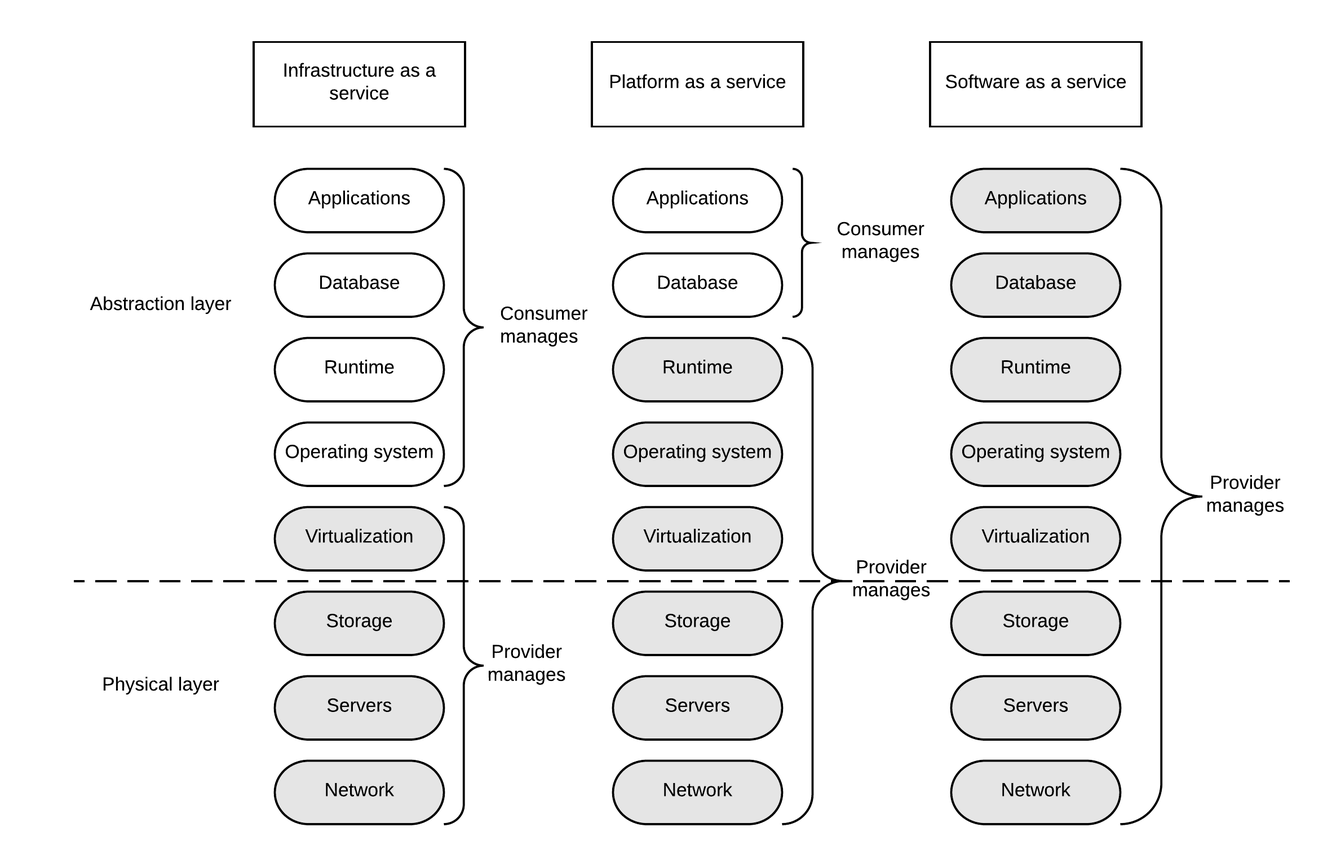
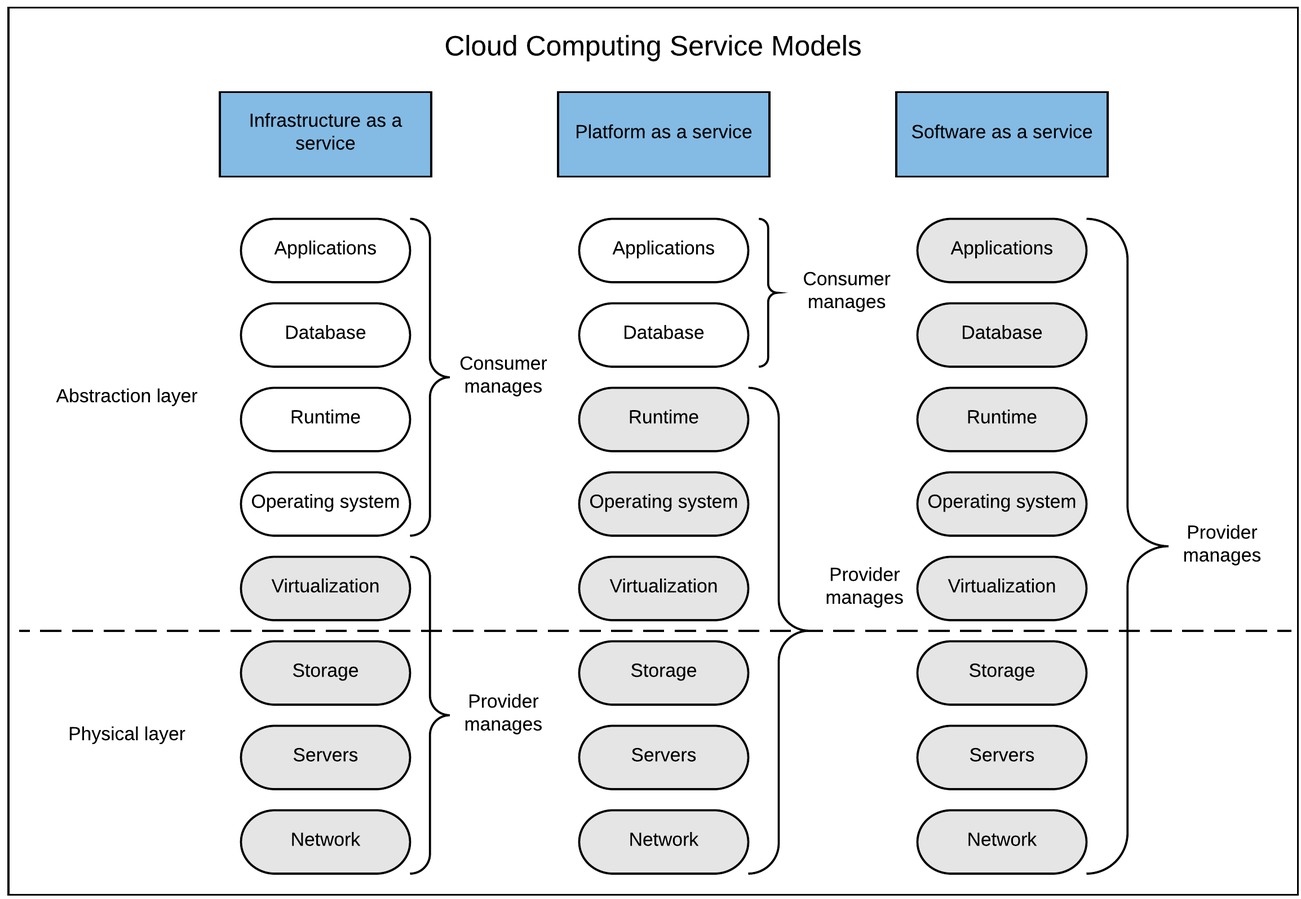
Looked through Cloud Computing chapter. GCP and web servers still lacking.

diff --git a/sections/cloud_computing/cloud_computing.tex b/sections/cloud_computing/cloud_computing.tex
@@ -1,38 +1,44 @@
 \chapter{Cloud Computing}
 \label{ch:cloud_computing}
 
-Cloud Computing is both applications available over the internet, but also the hardware and system software that provide these services.
-Rather than scaling a single node vertically, Cloud Computing shifts focus and enables horizontal scaling of virtualized storage and network resources\cite{armbrust2010view}. Cloud computing enable applications to fulfil new requirements for rapid capacity up and down scaling, with the notion that available virtual resources are limitless\cite{sosinsky2010cloud}.
+\textit{In previous chapter the three predominant architectural patterns in design of distributed systems were described. This chapter will explain the possibilities cloud computing has created for development and distribution of distributed applications. As well as the cloud native movement behind it, pushing for more resilient applications.}
 
-According to Barrie Sosinsky\cite[p. 3 ]{sosinsky2010cloud} Cloud Computing sets new standards for system development and deployment, representing a real paradigm shift: //
+Cloud Computing is both applications available over the internet, but also the hardware and system software that provide these services.
+Rather than scaling a single node vertically, Cloud Computing shifts focus and enables horizontal scaling of virtualized storage and network resources\cite{armbrust2010view}. Cloud computing enable applications to fulfil new requirements for rapid capacity up and down scaling, with the notion that available virtual resources are limitless\cite{sosinsky2010cloud}. At the same time virtualization facilitates reproducibility, resource isolation and transparency, recently revolutionised by the container abstraction, making it possible to create systems consisting of many small independent services. 
+
+According to Barrie Sosinsky\cite[p. 3 ]{sosinsky2010cloud} Cloud Computing sets new standards for system development and deployment, representing a real paradigm shift:
+
 \tquote{Cloud computing represents a real paradigm shift in the way in which systems are deployed. The massive scale of cloud computing systems was enabled by the popularization of the Internet and the growth of some large service companies. Cloud computing makes the long-held dream of utility computing possible with a pay-as-you-go, infinitely scalable, universally available system. [...] That’s why cloud computing is revolutionary, even if the technology it is built on is evolutionary}{Sosinsky}{2010}
 
-Cloud Computing is a enabler for further evolving how distributed systems are designed, distributed, updated and accessed.
+Cloud Computing is a enabler for further evolving how distributed systems are designed, distributed, updated and accessed. 
+
+\comment{Something about open source libraries and tools. Introduce Cloud Native}
+
+
+\comment{CNCF’s newly-announced reference architecture (below) to segment the stack and identify the prevailing projects, products and companies that enable organizations to build, test, deploy and scale cloud native applications}
+
+\url{https://medium.com/memory-leak/introducing-the-cloud-native-landscape-86c536411373}
 
 \section{Defining Cloud Computing}
-This section will try and pin down what defines Cloud computing, enabling usage of the term for the rest of the report. Cloud Computing has been over utilized, and the term has become very saturated.
+This section will try and pin down what defines Cloud computing, as the term has been over utilized, concrete definition has vanished.
 
-The National Institute of Standards and Technology (NIST) defines Cloud Computing \cite{mell2011nist}:
+The National Institute of Standards and Technology (NIST) defines the Cloud Computing infrastructure as a composition of hardware and software enabling five essential characteristics \cite{mell2011nist}:
 
 \defi{Cloud Computing (NIST)}{Cloud computing is a model for enabling ubiquitous, convenient, on-demand network access to a shared pool of configurable computing resources}{The NIST definition of cloud computing\cite{mell2011nist}}
 
-Cloud infrastructures are a composition of hardware and software enabling five essential characteristics. Each characteristic is detailed below.
+NIST defines each of the five characteristics in further detailed, explained below:
 
 \textbf{On-demand self-service}\\
 Computing capabilities can be provisioned on-demand automatically without human interaction.
 
-
 \textbf{Broad network access}\\
 Capabilities are heterogeneous accessible over the network.
 
-
 \textbf{Resource pooling}\\
 The providers computing resources are pooled, serving multiple consumers simultaneously. Different physical and virtual resources are dynamically assigning and reassigning based on consumer demand.
-\comment{Expand with a concrete explanation of how servers are split up}
 
 \textbf{Rapid elasticity}\\
 Capabilities are elastic, supporting rapid outward and inward scaling. 
-
 
 \textbf{Measured service}\\
 Resources are measured, providing transparency for both the provider and consumer. Enabling cloud systems to optimize resource usage.
@@ -60,26 +66,27 @@ The benefits of resource pooling are so compelling that technologies that makes 
 
 }
 
-\subsection{Service models / Utility Computing Classes}
-The aforementioned cloud infrastructure characteristics is made available to the consumer through three different service models\cite{mell2011nist}.
-Service models are distinguished by the provided systems software abstraction and resource management level. The level of abstraction and resource management affect the available services, leaving increasing levels of management responsibilities to the provider\cite[p. 52]{armbrust2010view}.
+\subsection{Service models}
+The cloud infrastructure is made available to the consumer through three different service models \cite{mell2011nist}. Service models are distinguished by the provided systems software abstraction and resource management level. The level of abstraction and resource management affect the available services, leaving increasing levels of management responsibilities to the provider \cite[p. 52]{armbrust2010view}.
 The three service models are depicted on figure \ref{fig:cloud_computing_definition_service_models}, where the different abstraction levels are visible.
 
 \textbf{Software as a Service (SaaS)}\\
-The provider makes the complete application availbe on the cloud infrastructure, for consumers to start up. The applications are accessible through thin client interfaces (eg. web browsers), or program interfaces. The consumer does not manage or control the underlying infrastructure and is therefore alleviated the burden of maintenance, operation and support costs\cite{youseff2008toward}.
+The provider makes the complete application available on the cloud infrastructure, for consumers to start up. The applications are accessible through thin client interfaces (eg. web browsers), or program interfaces. The consumer does not manage or control the underlying infrastructure and is therefore alleviated the burden of maintenance, operation and support costs \cite{youseff2008toward}.
 
 
 \textbf{Platform as a Service (PaaS)}\\
-The consumer can deploy consumer-created or acquired applications, controlling the deployment and potentially configuration settings for the hosting environment. Underlying cloud infrastructure network, servers storage, virtualization, operating system (OS) and runtime is provider managed.
+The consumer can deploy consumer-created or acquired applications, controlling the deployment and potentially configuration settings for the hosting environment. Underlying cloud infrastructure network, servers storage, virtualization, operating system (OS) and runtime is provider managed \cite{youseff2008toward}.
 
 \textbf{Infrastructure as a Service (IaaS)}\\
-The consumer can provision processing, storage and network resources, but does not manage them. The consumer can run arbitrary software.
+The consumer can provision processing, storage and network resources, but does not manage them. The consumer can run arbitrary software \cite{youseff2008toward}.
 
 \begin{figure}[!htb]
-  \includegraphics[scale=0.15]{cloud_computing_definition_service_models}  
-  \caption{Service models}
+  \includegraphics[width=\textwidth]{cloud_computing_definition_service_models}  
+  \caption{The three service models providing services at different abstraction levels}
   \label{fig:cloud_computing_definition_service_models}
 \end{figure}
+
+This thesis has used the IaaS service model, using the Kubernetes cluster scripts to start the cluster used during experiments, and creating dockerfiles with different types of image types, these concepts will be further explained in section \ref{sec:docker} and \ref{sec:cluster} below. Virtual Machines (VM's) have also been started manually, to host the test application described in more detail in chapter \ref{ch:implementation}.
 
 \note{
 utility computing - the computer resources being sold
@@ -88,7 +95,6 @@ utility computing - the computer resources being sold
 
 \subsection{Deployment models}
 Cloud infrastructures are made available through four different deployment models, with distinct differences. The deployment model describes  location and ownership of the infrastructure, and determines who is responsible for the infrastructure. The deployment model affects the expected data confidentiality and security, the specified availability, and the available deployment size.
-
 
 \textbf{Private cloud}\\
 Internal data center, provisioned for exclusive use to the owning organization.
@@ -103,53 +109,62 @@ The cloud infrastructure is provisioned to the general public, in a "Pay-as-you-
 A composition of several distinct cloud infrastructures.
 
 
-Armbrust et al.\cite{armbrust2010view} states that data confidentiality and auditability is one of the biggest obstacles, for a large-scale adoption of public cloud computing infrastructures. Internal consumer concerns and legislation prohibits some consumers from fully adopting public cloud computing infrastructures, forcing a private cloud deployment models. 
-\comment{Should this be here or somewhere else? Should it be expanded?}
+Armbrust et al. states that data confidentiality and auditability is one of the biggest obstacles, for a large-scale adoption of public cloud computing infrastructures \cite{armbrust2010view}. Internal consumer concerns and legislation prohibits some consumers from fully adopting public cloud computing infrastructures, forcing a private cloud deployment models, incurring an increased time frame on the adoption of a cloud infrastructure in some enterprises.
 
-\section{The different Layers In Cloud Computing}
-It is important to get an overview over the Cloud Computing landscape, or as the cloud native foundation expresses it: Cloud Native Landscape.
+\section{Cloud Native Landscape}
+There is are a high amount of different aspects when working with cloud computing. The Cloud Native Computing Foundation has defined 5 overall levels: Infrastructure, Provisioning, Runtime, Orchestration \& Management and Application Definition \& Development. This project only involves four of the overall levels in the Cloud Native Landscape definition, seen on figure \ref{fig:cloud_computing_cloud_native_landscape}, the technologies utilized in this project is show on each level respectively.
 
-There is a distinction between the two, but they also draw many parallels.
+\textbf{Infrastructure} \\
+The provider, and the services they make available. The Google Cloud Platform infrastructure has been used extensively to host all experiments, and is described in section \ref{sec:GCP}.
+
+\textbf{Provisioning}\\ 
+Provisioning contains how the infrastructure is accessed and managed, how computing resources are reserved. No technologies have utilized in this area, and it has therefore been omitted from the figure for the sake of simplicity.
+ 
+\textbf{Runtime}\\
+Runtime defines OS, storage, container runtime and networking. Docker has been used throughout all projects created and deployed during this thesis. A thorough section on virtualization, hypervisors and container including a description of docker is available in section \ref{sec:virtualization}.
+ 
+\textbf{Orchestration \& Management}\\
+Orchestration \& Management is exactly that, orchestration tools as well as services coordinating and management tools. Kubernetes have been used for cluster creation and orchestration, described in section \ref{sec:cluster}. 
+ 
+\textbf{Application Definition \& Development}\\
+This contains a lot of components, and is the more traditional level in the stack. Here the application environment and it's dependencies are listed including: databases, language and frameworks, source control management, dependency management, continuous integration (CI), continuous Delivery (CD) among other aspects. This project has utilized the NodeJS and Spring Boot frameworks together with their package managers Node Package Manger (NPM) and Maven which is described in greater detail in section \ref{sec:node} and \ref{sec:spring} below. Github was used for source control management \footnote{All repositories are available at: \url{https://heinsen-thesis.github.io/}}.
 
 \begin{figure}[!htb]
-  \includegraphics[width=\textwidth]{cloud_computing_cloud_native_landscape}  
-  \caption{The cloud native landscape, defined by the Cloud Native Computing Foundation}
+\begin{center}
+  \includegraphics[scale=0.11]{cloud_computing_cloud_native_landscape}  
+  \caption{The utilized technology stack, the entire Cloud Native Landscape can be found on: \url{https://github.com/cncf/landscape}}
   \label{fig:cloud_computing_cloud_native_landscape}
+\end{center}
 \end{figure}
 
-\subsection{Application Layer}
 
+\note {
+There are two distinctive and overall layers when talking about distributed applications, the application and infrastructure layer, working on two different abstraction levels.
+}
 
-\subsection{Infrastructure Layer}
-The infrastructure is a higher level, determining where the application is distributed.
-
-\subsection{Architecture}
-When using the word architecture, everything revolving designing the system on both a application and infrastructure level is incorporated.
-
-
-
-\section{Virtualization, hypervisors and containers}
-Resource pooling enables the remaining four essential characteristics of Cloud Computing: On-demand self-service, broad network access, rapid elasticity and measured service\cite{bittman2009server}. Resource pools are split  between consumers through a multitenancy layer, that enables the cloud infrastructure to distribute one service between several consumers\cite{krebs2012architectural}. This multitenancy layer is created with hypervisor and container technologies that both provide virtualization, these technologies are fundamental for Cloud Computing. Virtualization makes it possible to create several emulations on one server, that has the same attributes and characteristics as the physical system. This emulation has a memory address space, processor resources and device I/O, and is isolated from the rest of the system, utilizing its reserved amount of resources. This section will explain both technologies, their differences and why container technology has gain on VMs in the past few years.
+\section{Virtualization, Hypervisors and Containers}
+\label{sec:virtualization}
+Resource pooling enables the remaining four essential characteristics of Cloud Computing: On-demand self-service, broad network access, rapid elasticity and measured service \cite{bittman2009server}. Resource pools are split  between consumers through a multitenancy layer, that enables the cloud infrastructure to distribute one physical server between several consumers \cite{krebs2012architectural}. This multitenancy layer is created with hypervisor and container technologies that both provide virtualization, these technologies are fundamental for Cloud Computing. Virtualization makes it possible to create several emulations on one server, that has the same attributes and characteristics as the physical system. This emulation has a memory address space, processor resources and device I/O, and is isolated from the rest of the system, utilizing it's reserved amount of resources. This section will explain both technologies, their differences and why container technology has gained preference over VM's in the past few years.
 
 \subsection{Hypervisors}
-Hypervisors provide virtual machines (VM) access to system resources. According to \cite[p.~100]{sosinsky2010cloud} two types of hypervisors exist, differentiated by whether the hypervisor is on top of a host OS or not.
+Hypervisors provide VM access to system resources. According to \cite[p.~100]{sosinsky2010cloud} two types of hypervisors exist, differentiated by whether the hypervisor is on top of a host OS or not.
 
 \begin{itemize}
 	\item \textbf{Type 1 Native:} The hypervisor has no host OS.
 	\item \textbf{Type 2 Hosted:} The hypervisor is installed on top of a host OS. (seen on figure \ref{fig:cloud_computing_definition_virtualization})
 \end{itemize}
 
-Type 1 virtual machines have no host operating system below them and are running directly on a bare system, completely simulating the hardware that it is running on. Type 1 virtualization is therefore called full virtualization. Type 2 virtual machines has a underlying host operating system, with a software interface mapping guest OSs system calls to the host OS. Hypervisor virtualization is machine-level virtualization, because it attempts to emulate a complete computing environment\cite{fink2014docker}. This makes this type of virtualization very resource intensive. A hypervisor approach is ideal when applications running on a single server require different OSs, and need access to a complete computing environment.
+Type 1 VM's have no host operating system below them and are running directly on a bare system, completely simulating the hardware that it is running on. Type 1 virtualization is therefore called full virtualization. Type 2 VM's has a underlying host operating system, with a software interface mapping guest OSs system calls to the host OS. Hypervisor virtualization is machine-level virtualization, because it attempts to emulate a complete computing environment \cite{fink2014docker}. This makes this type of virtualization very resource intensive. A hypervisor approach is ideal when applications running on a single server require different OSs, and need access to a complete computing environment.
 
 \subsection{Containers}
-Containers always share OS with the host, making container deployments very small and enables hundreds of simultaneous containers running on a single server. Containers try to share resources among running instances, by sharing RAM, disk space and kernel. Containers start up in seconds, while VMs take minutes to boot\cite{dockerFAQ}. Container virtualization is categorized as system-level virtualization, due to the the containers operating at the process level. Container virtualization is know from the Linux kernel library Linux Container(LXC). LXC gives the possibility to create processes that are sand boxed from one another, controlling their available resources. Docker is the most popular container technology, utilizing LXC adding high-level tools on top. These tools further enhance container technology by improving usability and accessibility. Docker is more thoroughly explained in the coming section. 
+Containers always share OS with the host, making container deployments very small and enables hundreds of simultaneous containers running on a single server. Containers try to share resources among running instances, by sharing RAM, disk space and kernel. Containers start up in seconds, while VMs take minutes to boot \cite{dockerFAQ}. Container virtualization is categorized as system-level virtualization, due to the the containers operating at the process level. Container virtualization is know from the Linux kernel library Linux Container(LXC). LXC gives the possibility to create processes that are sand boxed from one another, controlling their available resources. Docker is the most popular container technology, utilizing LXC adding high-level tools on top. These tools further enhance container technology by improving usability and accessibility. Docker is more thoroughly explained in the coming section. 
 
-Due to containers natural small size, each service can be packed in its own container, providing excellent separation and isolation from other service executables, configurations, libraries and lifecycles. Each service can be packed separately, preventing services from affecting or conflicting with each other. Because each service doesn't need to be composed with the remaining services and is almost independent of the production environment (besides being the correct platform), immutable containers can be created\cite{kubernetes_what_is}. This gives a consistent environment from development into production, removing possible surprise challenges in the production environment.
+Due to containers natural small size, each service can be packed in its own container, providing excellent separation and isolation from other service executables, configurations, libraries and lifecycles. Each service can be packed separately, preventing services from affecting or conflicting with each other. Because each service doesn't need to be composed with the remaining services and is almost independent of the production environment (besides being the correct platform), immutable containers can be created \cite{kubernetes_what_is}. This gives a consistent environment from development into production, removing possible surprise challenges in the production environment.
 \comment{Overvej om vi skal have hele application oriented vs. machine oriented med. Det er jo mere en afledt fordel, som påvirker desing og "time to market"}
 
 
 \subsection{Comparison}
-Figure \ref{fig:cloud_computing_definition_virtualization} compares a hypervisor and container approach. The hypervisor approach is ideal when different OSs or versions are needed, requiring a VM level abstraction\cite{bernstein2014containers}. Containers on the other hand reduce deployment size drastically, by utilizing a singular OS on each server. Even though the applications are limited to same platform as the server they are running on, containers have emerged as a very attractive virtualization method, due to very low overhead and ease of deployment\cite{fink2014docker}.
+Figure \ref{fig:cloud_computing_definition_virtualization} compares a hypervisor and container approach. The hypervisor approach is ideal when different OSs or versions are needed, requiring a VM level abstraction\cite{bernstein2014containers}. Containers on the other hand reduce deployment size drastically, by utilizing a singular OS on each server. Even though the applications are limited to same platform as the server they are running on, containers have emerged as a very attractive virtualization method, due to very low overhead and ease of deployment \cite{fink2014docker}.
 
 \begin{figure}[!htb]
 	\centering 
@@ -160,38 +175,41 @@ Figure \ref{fig:cloud_computing_definition_virtualization} compares a hypervisor
 
 
 \note{
-Resource pooling is in turn often enabled by the use of hypervisors or containers\cite{bernstein2014containers}. Common for both technologies is that they provide isolation and a multitenancy layer that enables the cloud infrastructure to serve different customers with one server instance\cite{krebs2012architectural}. By abstracting physical resources into virtual, management and automatic allocation of computing resource is made possible\cite{sosinsky2010cloud, armbrust2010view}, giving the possibility to subdivide physical resources, and present smaller and separate virtual resource partitions\cite{barham2003xen}. 
+Resource pooling is in turn often enabled by the use of hypervisors or containers\cite{bernstein2014containers}. Common for both technologies is that they provide isolation and a multitenancy layer that enables the cloud infrastructure to serve different customers with one server instance\cite{krebs2012architectural}. By abstracting physical resources into virtual, management and automatic allocation of computing resource is made possible\cite{sosinsky2010cloud, armbrust2010view}, giving the possibility to subdivide physical resources, and present smaller and separate virtual resource partitions \cite{barham2003xen}. 
 
-Supporting mordern development flow, where small pieces of code is written and tested in constant iteration\cite{fink2014docker}.
+Supporting mordern development flow, where small pieces of code is written and tested in constant iteration \cite{fink2014docker}.
 
 Modern applications often depend on many existing components, relying on other services and applications. These dependencies can easily conflict with other component dependencies\cite{merkel2014docker}. Using virtualization applications can be packaged along with dependencies and run in disparate environments, making distribution between development, test and production environments easy.
 }
+
 \subsection{Docker}
-Docker is a open source project that provide developers with a high-level tool to manage container virtualization. Besides the earlier explained advantages with container virtualization itself, docker provides several benefits, making container virtualization even more usable. Docker introduces many indispensable features for big-scale application projects\cite{dockerFAQ}. The core features of docker are explained below:
+\label{sec:docker}
+Docker is a open source project that provide developers with a high-level tool to manage container virtualization. Besides the earlier explained advantages with container virtualization itself, docker provides several benefits, making container virtualization even more usable. Docker introduces many indispensable features for big-scale application projects \cite{dockerFAQ}. The core features of docker are explained below:
 
 \textbf{Portable deployment across machines}\\
 By bundling the application with all its dependencies, and creating a machine-specific abstraction, docker makes it easy to run the exact same container on different machines, with different configurations.
 
 \textbf{Application-centric}\\
-Docker centralizes the application, in the deployment phase. Reducing friction when deploying the application. According to Burns et al.\cite{burns2016borg} this has several benefits, improving application deployment and introspection.
+Docker centralizes the application, in the deployment phase. Reducing friction when deploying the application. According to Burns et al. \cite{burns2016borg} this has several benefits, improving application deployment and introspection.
 
 \textbf{Automatic build}\\
-Docker provides the dockerfile abstraction, making it possible to automatically assemble containers. A key feature for enabling many of the cloud infrastructure advantages. The dockerfile is a simple file that contains instructions on which libraries that are needed and actions should be taken for successfully starting the container.
+Docker provides the dockerfile abstraction, making it possible to automatically assemble containers. A key feature for enabling many of the cloud infrastructure advantages. The dockerfile is a simple file that contains instructions on which libraries and deployment specific actions that are needed for successfully starting the containerized application.
 
 \textbf{Versioning}\\
 By introducing versioning of containers, docker makes it possible to track changes, introducing the many advantages known from git. Being able to see changes done to the container, control push of changes, introducing traceability all the way from development to production servers.
 
 \textbf{Component re-use}\\
-The docker images support component re-use, a dockerfile can be used as "base image" for other dockerfiles, providing a base for more specialized components.
+The docker images support component re-use, a dockerfile can be used as base image in other dockerfiles, providing a base for more specialized components.
 
 \textbf{Sharing}\\
-Docker images are accessible on the Docker Hub, that makes it possible to share useful images, that other developers can take advantage of. The docker hub also makes it possible to store images privately, still gaining the accessibility but hindering outsiders from utilizing the image.
+Docker images are accessible on the Docker Hub, making it possible to share useful images, and take advantage of images shared. The docker hub also makes it possible to store images privately, still gaining the accessibility (eg. internally in an organisation) hindering outsiders from utilizing the image.
 
 \textbf{Tool ecosystem}\\
 Docker makes it possible to automate and customize the creation and deployment of containers, through an simple API.
 
 \section{Cluster management}
-Kubernetes is a container-management tool, that watches for changes in the cluster, keeping it in a steady state\cite{burns2016borg}. Kubernetes is open source but has mainly been developed by Google, that has extensive experience with running their infrastructure based on containers. Kubernetes has been developed with outset in two predecessor container-management tools developed internally at Google. Kubernetes main design goal is to ease deployment and management of complex distributed systems\cite{kubernetes_frontpage}. Kubernetes key features are described below:
+\label{sec:cluster}
+Kubernetes is a container-management tool, that watches for changes in the cluster, keeping it in a steady state \cite{burns2016borg}. Kubernetes is open source but has mainly been developed by Google, that has extensive experience with running their infrastructure based on containers. Kubernetes has been developed with outset in two predecessor container-management tools developed internally at Google. Kubernetes main design goal is to ease deployment and management of complex distributed systems \cite{kubernetes_frontpage}. Kubernetes key features are described below:
 
 \textbf{Automatic binpacking}\\
 Kubernetes places containers on servers according to the amount of resources needed by the container, maximizing utilization of server resources, with focus on availability.
@@ -245,6 +263,11 @@ DevOps
 \comment{Mention the specification of processor/core resources, either here or in GCP section}
 
 \section{Google Cloud Platform}
+\label{sec:GCP}
+The Google Cloud Platform is a public cloud provider
+
+makes it possible to create and 
+
 \comment{Forklar lidt omkring zoner, og hvad det betyder \url{https://cloud.google.com/compute/docs/regions-zones/regions-zones?hl=en_US}}.
 
 
@@ -252,9 +275,11 @@ DevOps
 \comment{Write something clever about web servers}
 
 \subsection{NodeJs}
+\label{sec:node}
 \comment{Write something clever about NodeJS}
 
 \subsection{Spring boot}
+\label{sec:spring}
 \comment{Write something clever about spring boot}
 \url{https://projects.spring.io/spring-boot/}
 

diff --git a/sections/discussion/discussion.tex b/sections/discussion/discussion.tex
@@ -1,6 +1,13 @@
 \chapter{Discussion}
 \label{ch:discussion}
 
+\section{Architecture}
+How does Conway's law changes how an organisation is able to develop it's software?
+
+Can an organisation like Danske Bank actually utilize a microservice architecture?
+
+Or does it require them to make changes beforehand?
+
 
 \section{Effects of Replication test}
 It is advanced to take all factors into account
@@ -33,3 +40,6 @@ Danske Bank have service agreements for their usage of Cassandra, if they meet a
 
 A good example is my challenges with the proxy settings and accessing heapster in my cluster setup. A change in newer versions of Kubernetes changed access patterns to the cluster, making it impossible to access the cluster in the same way as earlier, without a well documented solution. Proxy served as a decent solution, but still did not solve all problems.
 
+
+
+Lack of standardization, Where do you look for resources on a specific problem? Hard to estimate how long and hard a development process is gonna be when utilizing open source software, depending on finding a solution with a specific library.

diff --git a/sections/introduction/introduction.tex b/sections/introduction/introduction.tex
@@ -144,6 +144,8 @@ Excerpt From: pramod j. sadalage. “NoSQL Distilled: A Brief Guide to the Emerg
 
 
 
+\comment{Det her også en decent resource til noge tinput på en intro: \url{https://medium.com/memory-leak/introducing-the-cloud-native-landscape-86c536411373}}
+
 
 \newpage
 \input{sections/introduction/problem_formulation.tex}
